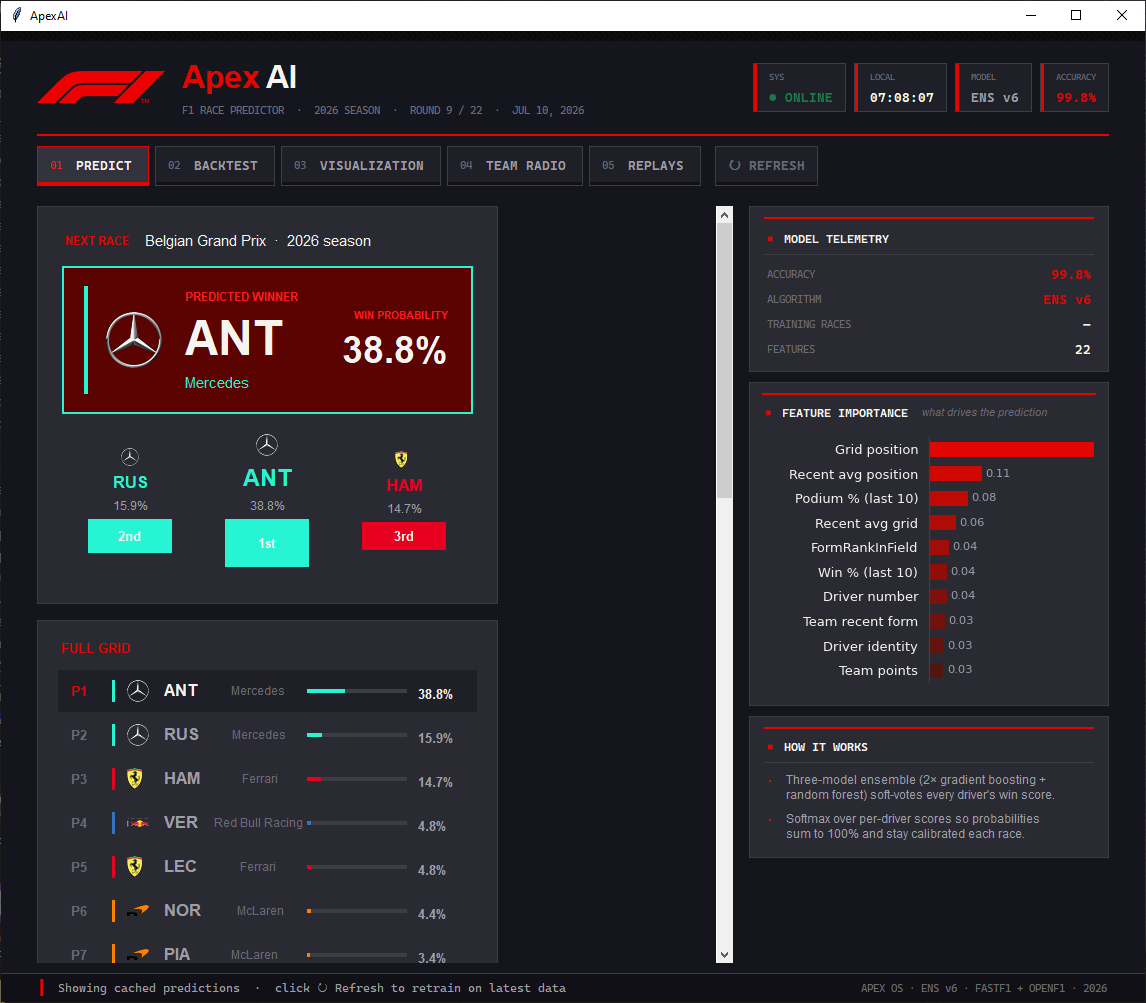
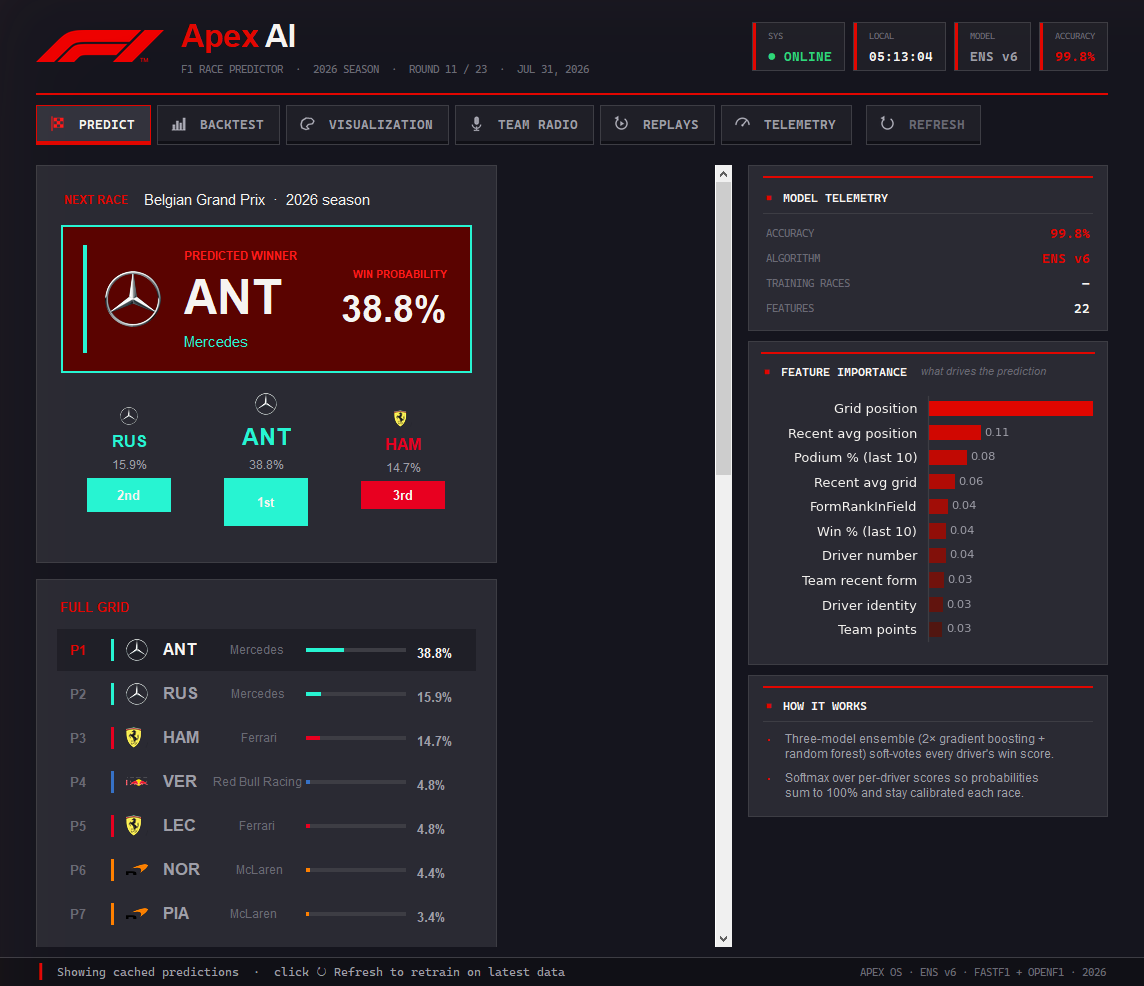
Refresh screenshots, add a telemetry one to the README
The tracked screenshot predated the tab icons, the merged Replays tab
and the telemetry rework, so it no longer showed the app as it ships.
Recaptured at native resolution from the running app.

Adds a second shot of the Telemetry tab. The README described the
overlay in prose but never showed it, and it is the part of the app that
changed most: team marks on the lap cards, the VS split, and the delta
hero with its advantage bar. The caption points at the closing delta
matching the two lap times, which is the thing the alignment fix was
about.

Also pads the summary row two pixels off the scrollbar - with the row
now filling the viewport the delta card's border sat flush against it,
which the screenshot made obvious.

diff --git a/app.py b/app.py
@@ -4587,7 +4587,9 @@ class ApexAI:
         delta off the edge) while the delta hero keeps its own column.
         """
         row = tk.Frame(parent, bg=BG)
-        row.pack(fill=tk.X, pady=(8, 0))
+        # Two pixels of right pad so the delta card's border doesn't sit
+        # flush against the scrollbar now that the row fills the viewport.
+        row.pack(fill=tk.X, pady=(8, 0), padx=(0, 2))
         row.columnconfigure(0, weight=1, uniform="lap")
         row.columnconfigure(2, weight=1, uniform="lap")
         c_a, c_b = self._tel_pair_colors(comparison)

diff --git a/README.md b/README.md
@@ -13,6 +13,15 @@ scrubbable data-driven replay of any session since 2018.
 
 ![ApexAI racing-console GUI — v6 ensemble predictions](screenshot.png)
 
+*The Predict tab: podium, full grid with calibrated win probabilities,
+and the feature importances behind the pick.*
+
+![ApexAI telemetry overlay — Norris vs Antonelli, 2026 Hungarian GP](screenshot-telemetry.png)
+
+*The Telemetry tab: two laps of the 2026 Hungarian Grand Prix on a
+shared axis. The closing delta (−0.076 s) is exactly the gap between the
+two lap times — see the alignment notes below.*
+
 > Looking for the full product spec? See [`docs/PRD.md`](docs/PRD.md).
 
 ## Highlights
